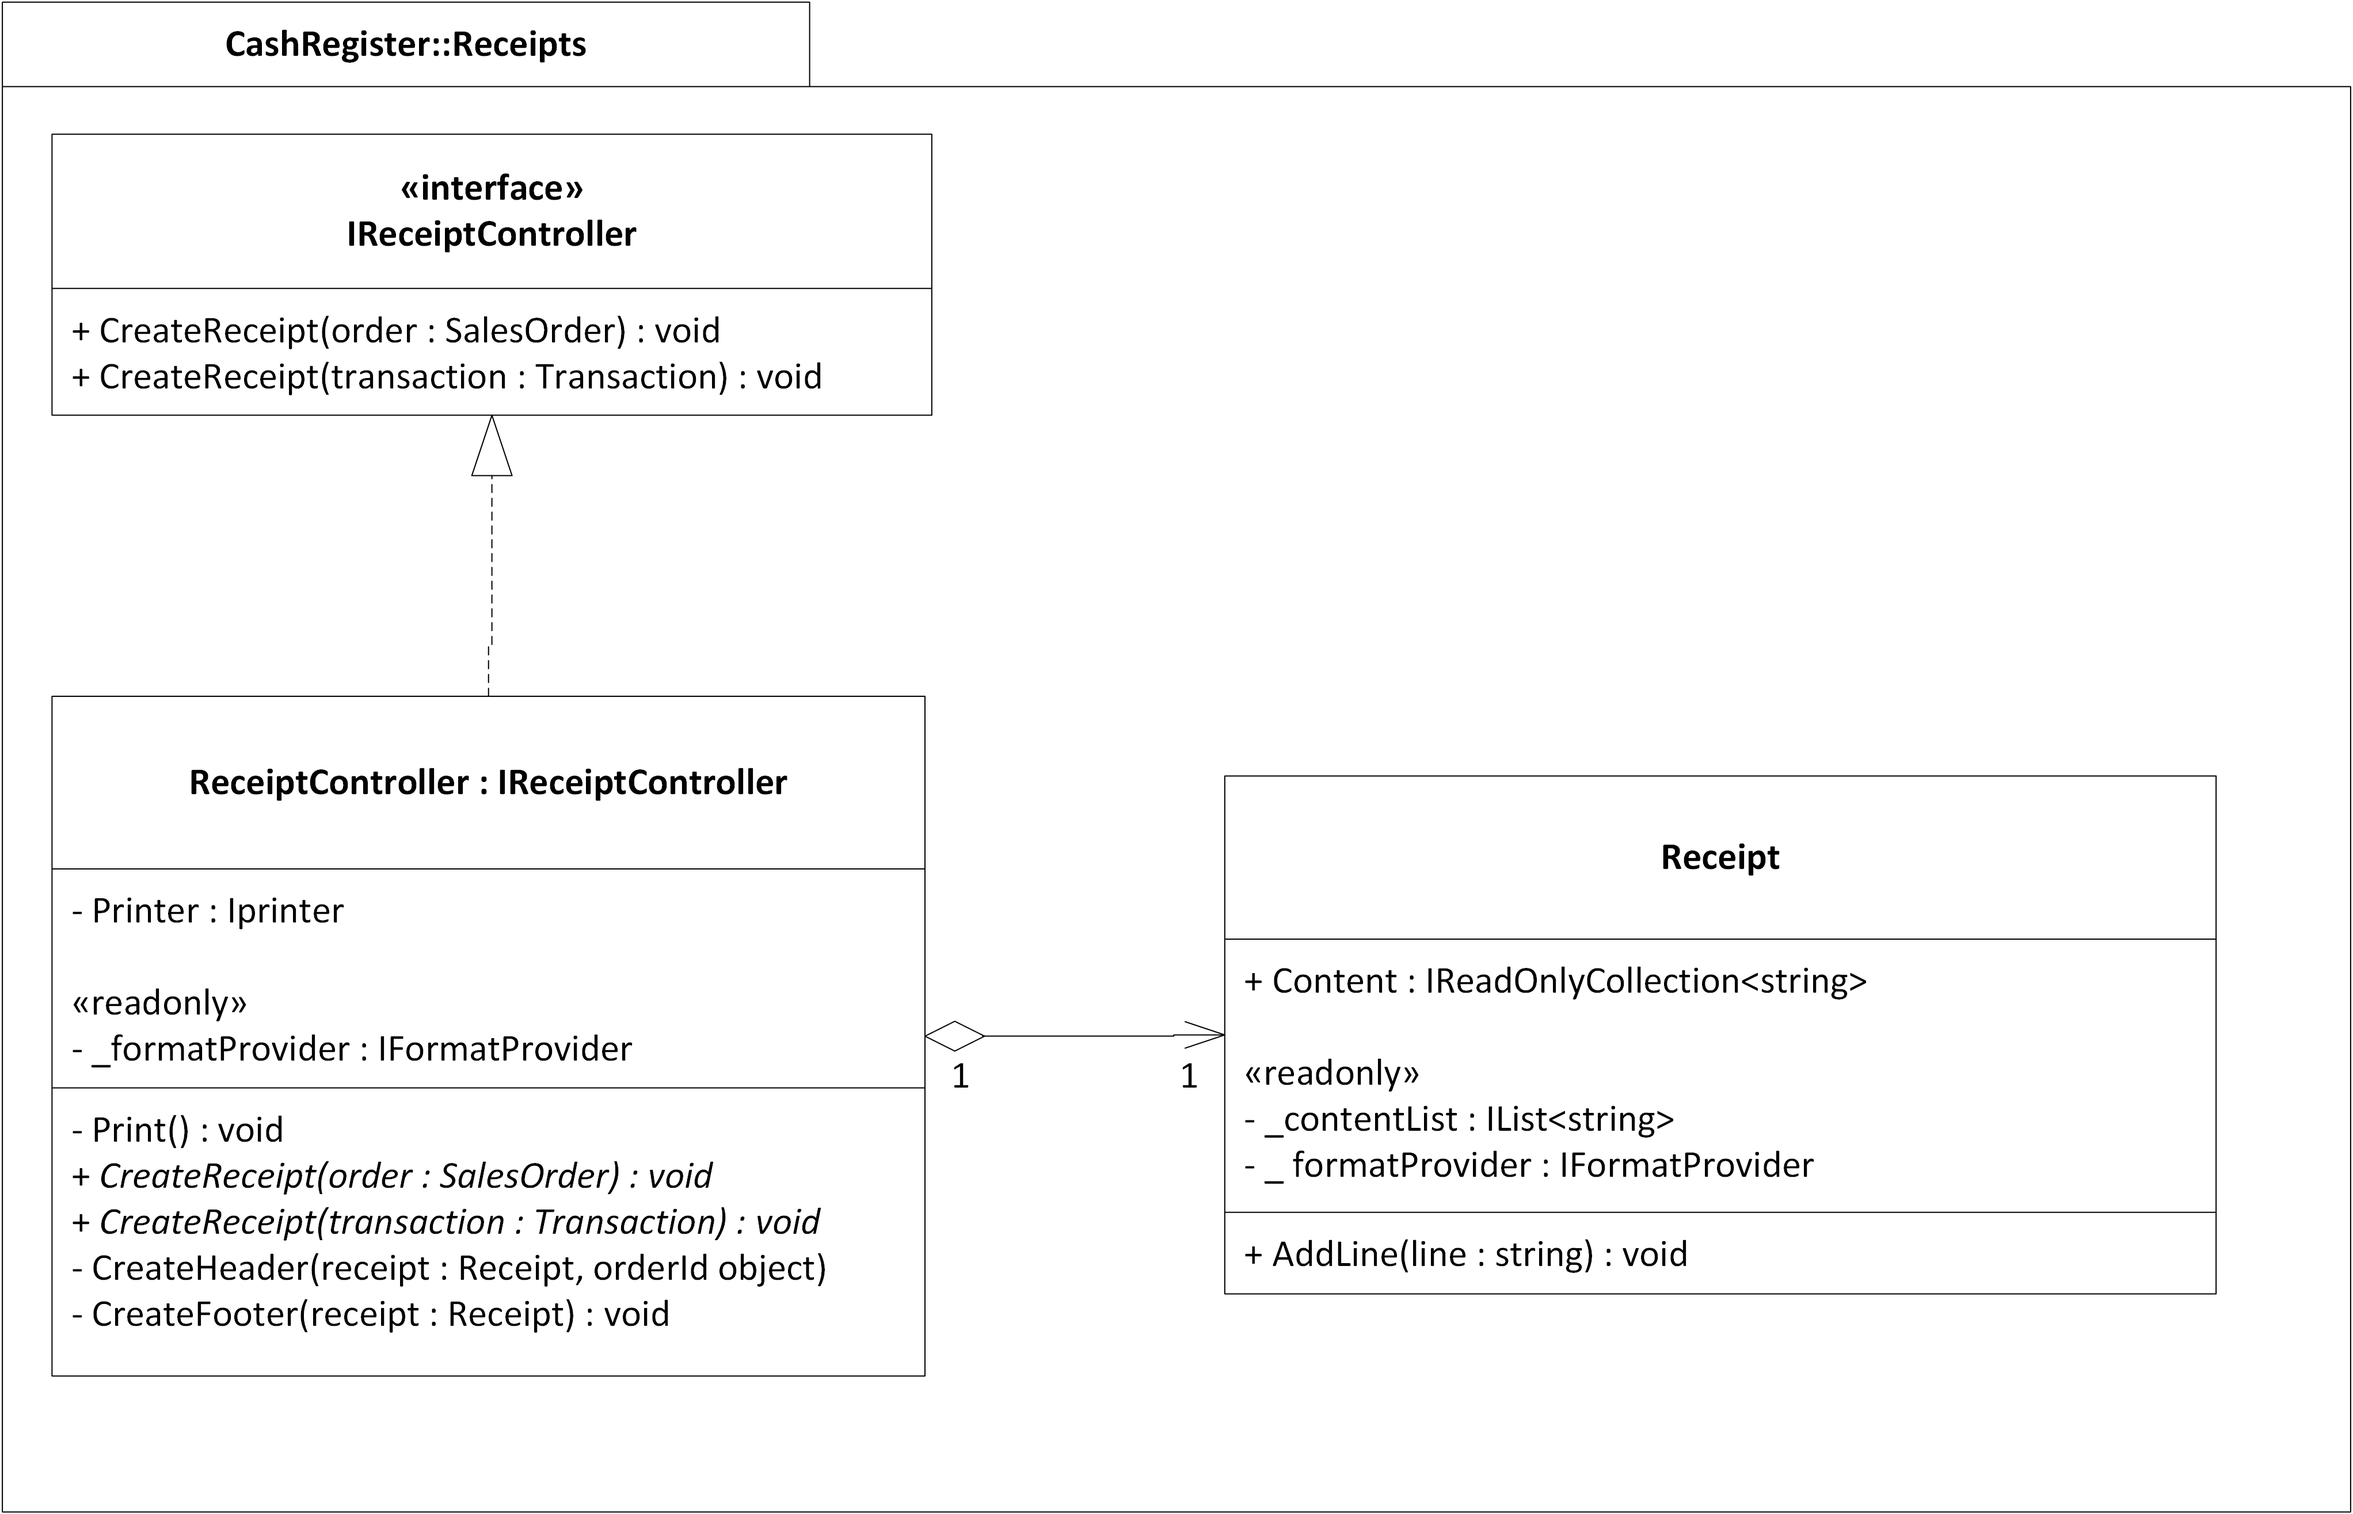
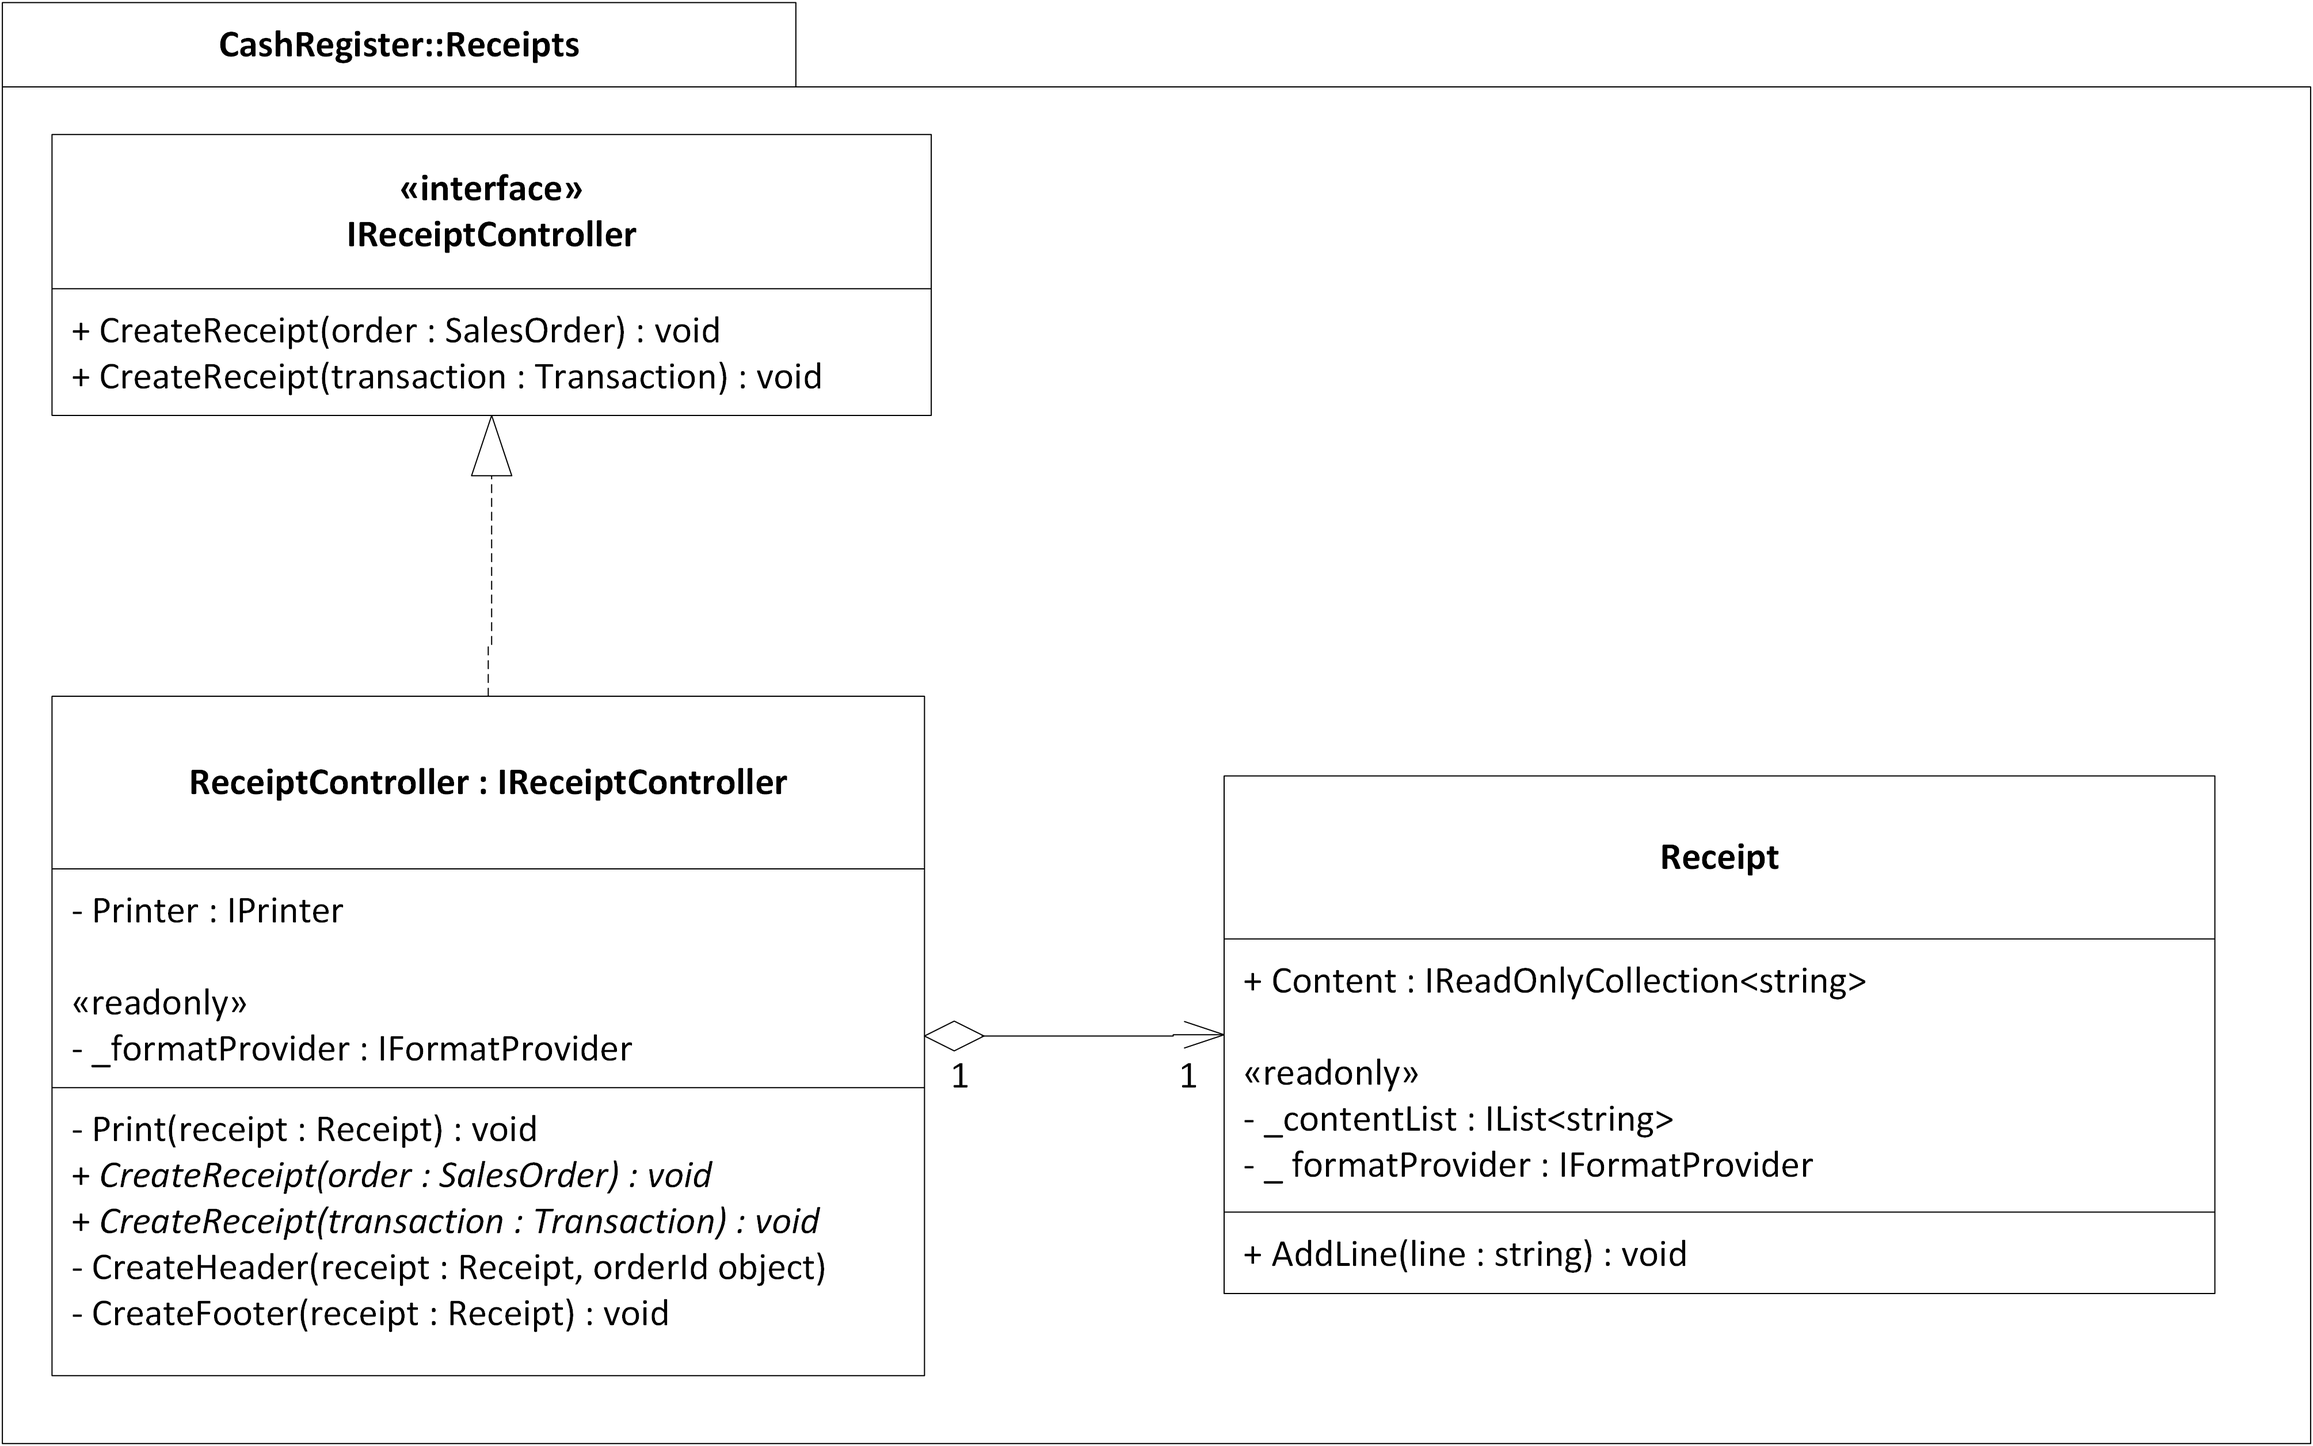
Changes to the rest of the logic layer

diff --git a/Projektdokumentation/Systemarkitektur/LogicalView/Data.tex b/Projektdokumentation/Systemarkitektur/LogicalView/Data.tex
@@ -1,27 +1,28 @@
-Data pakken er lavet for at facilitere tilgang til databasen, den er opdelt i tre pakker. En pakke der har alle de klasser der er nødvendige for at have data i hukommelsen det er models pakken. Den næste pakke er database pakken som står for tilgang og opsætning af databasen. Den sidste pakke er Data access laget som giver programmet mulighed for at tilgå databasen igennem pakken.
-\newline
+Data pakken er lavet for at facilitere tilgang til databasen. Den er opdelt i tre pakker. En pakke, Models pakken, der har alle de klasser, som er nødvendige for at have data i hukommelsen. Den næste pakke er Database pakken, som står for tilgang og opsætning af databasen. Den sidste pakke er \gls{DAL}, som giver programmet mulighed for at tilgå databasen igennem pakken.
+\newline\newline
 
 \textbf{Models}\newline
-Models pakken bliver brugt som model for den data der gemmes i database det er således vores objekt repræsentation af data'en som vi persistere. Det er ikke en 1:1 repræsentation i det at EF kan aflede en masse ud fra modellen. Desuden bruger vi Fluent API'en til at diktere forhold og nøgler i databasen.
+Models pakken bliver brugt som model for den data der gemmes i databasen. Pakken indeholder en objekt repræsentation af data'en, der skal persisteres. Det er ikke en 1:1 repræsentation fordi \gls{EF} kan aflede en masse ud fra modellen. Desuden bruger vi \gls{FluentAPI}'en til at diktere forhold og nøgler i databasen.
 
 \logicalview{0.85}{CLASS}{Models}{pakken Models}
 
-I figur \ref{fig:Models_CLASS} ses alle klasserne i modellen, det vigtigste er faktisk at relationerne fremstår mellem alle klasserne tydeligt. Der kan ses en større sammenhæng i dataview sektionen.
+I Figur~\ref{fig:Models_CLASS} ses alle klasserne i modellen, det vigtigste er at relationerne fremstår tydeligt mellem alle klasserne. Der kan ses en større sammenhæng i dataview sektionen\fxnote{reference}.
 \newline
 
 \textbf{Database}\newline
-Database pakken indeholder selve logikken der tilgår databasen. Kort fortalt er det her vi implementere den anden del af det vi skal bruge i forhold til EF, nemlig database-konteksten. 
-Den er vist i figur \ref{fig:Database_CLASS} i denne pakke ligger instruktionerne om hvordan databasen hænger sammen også de ligger i entityconfiguration klassen som der er mange af derfor er de vist som en generisk klasse.
-De bliver kaldt når \texttt{CashRegisterContext} kalder OnModelCreating. Configurationen består af nøgler, om en værdi er påkrævet og hvilke forhold der er imellem entiteterne. 
+Database pakken indeholder selve logikken, der tilgår databasen. Kort fortalt er det her, vi implementerer den anden del af det, vi skal bruge i forhold til \gls{EF}, nemlig database konteksten. 
+Den er vist i Figur~\ref{fig:Database_CLASS}, at der i denne pakke ligger instruktioner om, hvordan databasen hænger sammen. De ligger i \texttt{EntityConfiguration} klassen, som der er mange af. Derfor er de vist som en generisk klasse.
+Klasserne bliver kaldt, når \texttt{CashRegisterContext} kalder \texttt{OnModelCreating()}. Konfigurationen fortæller om hvordan objekterne skal mappes til entiteterne i databasen f.eks. hvilken property som skal være primær nøgle, hvilke properties er påkrævet eller hvilke relationer objekterne har til hinanden. 
 
 \logicalview{0.85}{CLASS}{Database}{pakken Database}
-\textbf{Data access layer}\newline
-Data access layer pakken, er lavet for at afkoble hvilken database der bliver brugt fra programmet. 
-Således er det kun data access layer der skal laves om, hvis der skiftes database. 
-Der stilles alle de funktioner der er nødvendige for at indsætte, slette, opdatere og oprette elementer i database til rådighed. 
-Disse kommer alle fra \texttt{Repository} klassen og kan tilgås igenenm \texttt{UnitOfWork} klassen som eksistere for at sikre at vi gemmer alle ændringerne i databasen på en gang. Til sidst er der en facade som sørger for at der kun kan eksistere et \texttt{UnitOfWork} ad gangen. 
+\textbf{Data Access Layer}\newline
+\gls{DAL} pakken er lavet for at afkoble databasen fra programmet. 
+Således at det kun er \gls{DAL}, der skal laves om, hvis database skiftes ud. 
+I \gls{DAL} stilles alle de funktioner, der er nødvendige for at indsætte, slette, opdatere og oprette elementer i databasen til rådighed. 
+Funktionerne kommer fra \texttt{Repository} klassen, som tilgås igennem \texttt{UnitOfWork} klassen.
+\texttt{UnitOfWork} eksiterer for at sikre, at vi gemmer alle ændringerne i databasen på en gang.
+Til sidst er der klassen \texttt{DALFacade}, som er en facade, der sørger for, at der kun kan eksistere et \texttt{UnitOfWork} ad gangen. 
 
-\logicalview{0.85}{CLASS}{Dal}{Data acces laget}
+\logicalview{0.85}{CLASS}{Dal}{Data Access Layer}
 
-I figur \ref{fig:Dal_CLASS} kan sammenhængen ses. 
-Her ses det at \texttt{DalFacade} er det som vi udstiller til resten af programmet og denne sørger for at give et \texttt{UnitOfWork} til dem der har behov for at tilgå data.
+I Figur~\ref{fig:Dal_CLASS} kan sammenhængen ses. Her ses det, at \texttt{DalFacade} klassen er det, som vi udstiller til resten af programmet. Denne sørger for at give et \texttt{UnitOfWork} til dem, der har behov for at tilgå databasen.

diff --git a/Projektdokumentation/Systemarkitektur/LogicalView/BusinessLayer/Payment/Payment.tex b/Projektdokumentation/Systemarkitektur/LogicalView/BusinessLayer/Payment/Payment.tex
@@ -1,11 +1,9 @@
 \textbf{Payment pakken}
 \newline
-\texttt{Payment} pakken, som ses på Figur~\ref{fig:Payment_CLASS}, er lavet for at kontrollere betalingen. For at have beskrivelser til betalingsmetoderne  er lavet et interface \texttt{IPaymentProviderDescriptor}. \texttt{IPaymentProvider} arver fra \texttt{IPaymentProviderDescriptor}, det er en klasse som indeholder de metoder, som alle betalingsmetoder kommer igennem. \texttt{Payment} er lavet så alle betalingstyper, \texttt{CashPayment}, \texttt{Nets} og \texttt{MobilePay} arver fra den abstrakte klasse \texttt{PaymentProvider} hvor de forskellige PaymentProviders metoder så er implementeret så de passer til betalingstypen. 
-\newline
-\newline
-Alle betalingstyperne er lavet med en metode der initialisere dem, så der ikke kommer til at stå for meget i konstruktoren. Betalingstyperne har en metode der overføre pengene og tilføjer det til det totale beløb i kassen og en der returnere status for transaktionen. Til sidst har den også en restart og en shutdown metode. Det er kun CashPayment der har en funktionalitet, Nets og MobilePay er kun implementeret så det skriver til \texttt{Log}.  
-\newline
-\newline
-\texttt{PaymentController} har opgaven at udfører transaktionen, gemme det info om den i databasen og holde styr på opgørelsen. kontrolleren har en liste af \texttt{IPaymentProvider}, når den skal udfører transaktionen, kan den se på den \texttt{Transaktion} som den får med som parametet, hvilken \texttt{PaymentType} den har, ud fra det bliver det så afgjort hvilken PaymentProvider den skal anvende. Når transaktionen så er gennemført, bliver detaljerne om den gemt i databasen via PaymentDao. 
+\texttt{Payment} pakken, som ses på Figur~\ref{fig:Payment_CLASS}, er lavet for at kontrollere betalingen. For at have beskrivelser til betalingsmetoderne  er lavet et interface \texttt{IPaymentProviderDescriptor}. \texttt{IPaymentProvider} arver fra \texttt{IPaymentProviderDescriptor}. \texttt{IPaymentProviderDescriptor} er en klasse som indeholder de metoder, som alle betalingsmetoder kommer igennem. \texttt{Payment} klassen er lavet så alle betalingstyper -- \texttt{CashPayment}, \texttt{Nets} og \texttt{MobilePay} -- arver fra den abstrakte klasse \texttt{PaymentProvider}. Her er de forskellige PaymentProviders' metoder implementeret så de passer til betalingstypen. 
+\newline\newline
+Betalingstyperne har en metode, der overfører pengene, tilføjer det til det totale beløb i kassen og returnere status for transaktionen. Klasserne har også \texttt{Restart()} og \texttt{Shutdown()} metoder, som skal sørge for genstarte og afslutning af betalingsmetoderne. På nuværende tidspunkt er det kun \texttt{CashPayment}, der har en funktionalitet. \texttt{Nets} og \texttt{MobilePay} er kun implementeret, så der skrives til \texttt{Log}, når deres metoder bliver kaldt.  
+\newline\newline
+\texttt{PaymentController} har opgaven at udføre transaktioner, gemme informationer om transaktioner i databasen og holde styr på opgørelsen. \texttt{PaymentController} har en liste af \texttt{IPaymentProvider}. Når den skal udføre en transaktion, kan den aflæse på \texttt{Transaktion}, hvilken \texttt{PaymentType} den har. Ud fra dette bliver det afgjort hvilken \texttt{PaymentProvider} der skal anvendes. Når transaktionen er gennemført, bliver detaljerne om den gemt i databasen via \texttt{PaymentDao}. 
 
 \logicalview{1}{CLASS}{Payment}{pakken Payment}

diff --git a/Projektdokumentation/Systemarkitektur/LogicalView/BusinessLayer/Receipts/Receipts.tex b/Projektdokumentation/Systemarkitektur/LogicalView/BusinessLayer/Receipts/Receipts.tex
@@ -1,10 +1,8 @@
 \textbf{Receipts pakken}
 \newline
 Denne pakke er lavet til at generere en kvittering udfra en salgsordre eller en transaktion.
-Til dette udstiller pakken interfacet \texttt{IReceiptController} hvor der er erklæret to funktioner en til salgsordre og en til transaktioner som det kan ses i \ref{fig:Receipts_CLASS}.
-Klassen \texttt{ReceiptController} står for at formattere den salgsordre eller transaktion den er blevet kaldt med den gemmer alt informationen i en instans af \texttt{Receipt} klassen.
-Som det kan ses \ref{fig:Receipts_CLASS} har \texttt{IReceiptController} en \texttt{print funktion} det betyder at \texttt{IReceiptController} også printer efter den har lavet bonnen.
-
+Til dette udstiller pakken interfacet \texttt{IReceiptController} hvor der er erklæret to funktioner: en til salgsordre og en til transaktioner, som det kan ses i Figur~\ref{fig:Receipts_CLASS}.
+Klassen \texttt{ReceiptController} står for at formattere salgsordren eller transaktionen. Når den bliver kaldt gemmer den alt informationen i et \texttt{Receipt} objekt.
+Som det kan ses Figur~\ref{fig:Receipts_CLASS} har \texttt{IReceiptController} en \texttt{Print()}, som er \textit{private}. Denne metode bruges til at printe kvitteringen efter formateringen.
 
 \logicalview{0.85}{CLASS}{Receipts}{pakken Receipts}
-

diff --git a/Projektdokumentation/Systemarkitektur/LogicalView/BusinessLayer/CashDrawers/CashDrawers.tex b/Projektdokumentation/Systemarkitektur/LogicalView/BusinessLayer/CashDrawers/CashDrawers.tex
@@ -1,7 +1,7 @@
 \textbf{CashDrawers pakken}
 \newline
-Denne pakke er lavet til at kunne styre penge skuffen på kasseapparatet. Den er meget simpel og indeholder kun en funktion nemlig \texttt{Open} og som navnet antyder bruges den til at åbne pengeskuffen.
-I kasseapparatets nuværende tilstand er det eneste klassen \texttt{CashDrawer} gør at skrive til loggen at der er blevet bedt om at få skuffen åbnet.
-Som det kan ses i figur \ref{fig:CashDrawers_CLASS} er det dog nemt at skifte \texttt{CashDrawer} ud med en implementation der kan åbne den rigtige pengeskuffe da det er implementeret med et interface.
+Denne pakke er lavet til at kunne styre pengeskuffen på systemet. Den er meget simpel og indeholder kun en funktion: \texttt{Open}, som navnet antyder bruges den til at åbne pengeskuffen.
+I systemets nuværende tilstand skriver \texttt{CashDrawer} til loggen, at der er blevet bedt om at få skuffen åbnet.
+I Figur~\ref{fig:CashDrawers_CLASS} kan det ses, at det er nemt at skifte \texttt{CashDrawer} ud med en implementation, der kan åbne den rigtige pengeskuffe, da det er implementeret med et interface.
 
 \logicalview{0.35}{CLASS}{CashDrawers}{pakken CashDrawers}

diff --git a/Projektdokumentation/Systemarkitektur/LogicalView/BusinessLayer/Printer/Printer.tex b/Projektdokumentation/Systemarkitektur/LogicalView/BusinessLayer/Printer/Printer.tex
@@ -1,8 +1,8 @@
 \textbf{Printer pakken}
 \newline
-Printer pakken er lavet for at gøre det muligt for programmet at udskrive kundebonner samt at udskrive afstemningen af kassen.
-Til dette er der lavet et interface \texttt{IPrinter} dette er lavet for at gøre det nemt at udskifte printer implemtationen.
-Interfacet er lavet til at modtage en linje ad gangen da vi tænkte at en bon er opbygget af ordrelinjer.
-Selve klassen \texttt{ReceiptPrinter} er lavet til at kunne printe via windows printer dialogen.  
+Printer pakken er lavet for at gøre det muligt for programmet at udskrive kvitteringer samt at udskrive afstemningen af kassen.
+Til dette er der lavet et interface \texttt{IPrinter}. \texttt{IPrinter} er lavet for at gøre det nemt at udskifte printer implementationen.
+Interfacet er lavet til at modtage en linje ad gangen.
+Selve klassen \texttt{ReceiptPrinter} er lavet til at kunne printe via Windows Printer Dialogen til standard printeren.
 
 \logicalview{0.55}{CLASS}{Printer}{pakken Printer}

diff --git a/Latex/Glossary/glossary.tex b/Latex/Glossary/glossary.tex
@@ -57,3 +57,14 @@
 	description={Et framework der bruges til at tilgå databasen}
 }
 \newacronym{EF}{EF}{Entity Framework\glsadd{gls-EF}}
+
+\newglossaryentry{gls-DAL}{
+	name=Data Access Layer,
+	description={En grænseflade mellem Entity Framework (databasen) og systemet}
+}
+\newacronym{DAL}{DAL}{Data Access Layer\glsadd{gls-DAL}}
+
+\newglossaryentry{FluentAPI}{
+	name=Fluent API,
+	description={En API som i forhold til databasen binder objekt relationer til entity relationer}
+}
